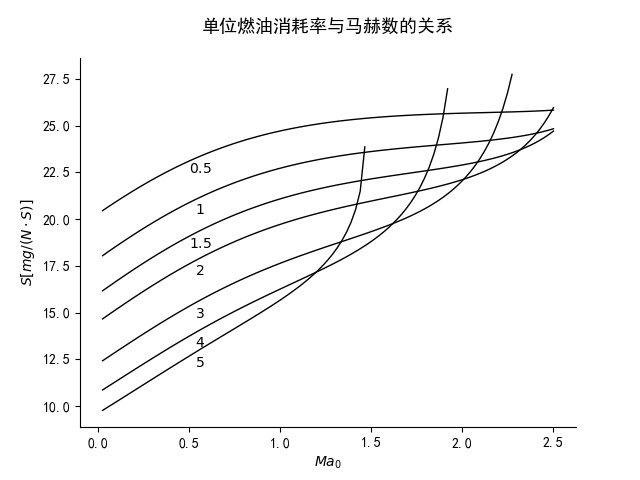
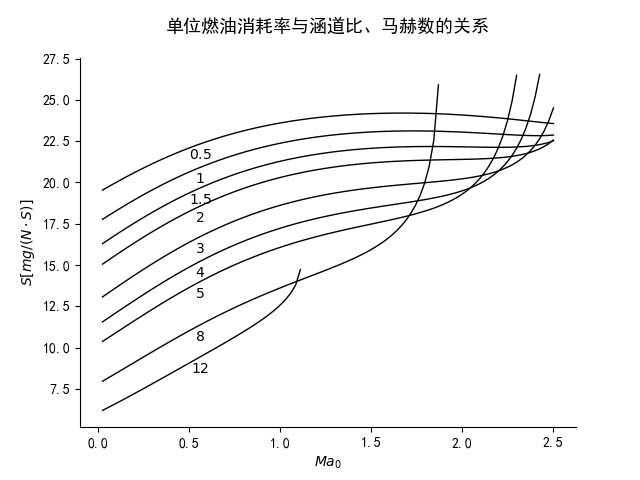
GE90参数更新

diff --git a/ploter.py b/ploter.py
@@ -10,7 +10,7 @@ import os
 path = os.path.dirname(os.path.abspath(__file__)) 
 os.chdir(path+"/out/")
 
-param={'T_0':217,'Ma_0':0.9,'h_c':42800000,'T_t4':1670,'pi_c':20,'pi_f':4,'alpha':1,'gama':1.4,'C_p':1004}
+param={'T_0':227.15,'Ma_0':0.84,'h_c':42800000,'T_t4':1775,'pi_c':42,'pi_f':2,'alpha':9,'gama':1.4,'C_p':1004}
 step=100
 
 # 绘制单位推力-压比关系图
@@ -68,7 +68,7 @@ plt.rcParams['font.sans-serif']=['SimHei']
 plt.rcParams['axes.unicode_minus']=False
 plt.xlabel('$\pi_c$')
 plt.ylabel('$S[mg/(N \cdot S)]$')
-plt.title(u'单位燃油消耗率与压比的关系\n',fontsize=13)
+plt.title(u'单位燃油消耗率与涵道比、压比的关系\n',fontsize=13)
 ax=plt.gca()
 ax.spines['top'].set_visible(False)
 ax.spines['right'].set_visible(False)
@@ -105,7 +105,7 @@ plt.rcParams['font.sans-serif']=['SimHei']
 plt.rcParams['axes.unicode_minus']=False
 plt.xlabel('$\pi_c$')
 plt.ylabel('$\eta_o\qquad\qquad (\%) \qquad\qquad\eta_p$')
-plt.title(u'推进效率、总效率与压比的关系\n',fontsize=13)
+plt.title(u'推进效率、总效率与涵道比、压比的关系\n',fontsize=13)
 ax=plt.gca()
 ax.spines['top'].set_visible(False)
 ax.spines['right'].set_visible(False)
@@ -114,16 +114,23 @@ plt.clf()
 
 # 绘制热效率与油气比-压比关系图
 x=np.linspace(1,30,step,endpoint=True)
-y=np.empty((step))
-z=np.empty((step))
+y=np.zeros((step))
+z=np.zeros((step))
 param_temp=param.copy()
 fig=plt.figure()
 ax1=fig.add_subplot(111)
-for i in range(step):
+i=0
+while i<len(x):
   param_temp['pi_c']=x[i]
   res=calculator.calc(param_temp)
-  z[i]=res['eta_t']*100
-  y[i]=res['f']
+  if res:
+    z[i]=res['eta_t']*100
+    y[i]=res['f']
+    i+=1
+  else:
+    x=np.delete(x,i)
+    y=np.delete(y,i)
+    z=np.delete(z,i)
 plt.rcParams['font.sans-serif']=['SimHei']
 plt.rcParams['axes.unicode_minus']=False
 plt.xlabel('$\pi_c$')
@@ -167,7 +174,7 @@ plt.rcParams['font.sans-serif']=['SimHei']
 plt.rcParams['axes.unicode_minus']=False
 plt.xlabel('$Ma_0$')
 plt.ylabel('$F/\dot{m}_0[N/(kg/s)]$')
-plt.title(u'单位推力与马赫数的关系\n',fontsize=13)
+plt.title(u'单位推力涵道比、马赫数的关系\n',fontsize=13)
 ax=plt.gca()
 ax.spines['top'].set_visible(False)
 ax.spines['right'].set_visible(False)
@@ -198,7 +205,7 @@ plt.rcParams['font.sans-serif']=['SimHei']
 plt.rcParams['axes.unicode_minus']=False
 plt.xlabel('$Ma_0$')
 plt.ylabel('$S[mg/(N \cdot S)]$')
-plt.title(u'单位燃油消耗率与马赫数的关系\n',fontsize=13)
+plt.title(u'单位燃油消耗率与涵道比、马赫数的关系\n',fontsize=13)
 ax=plt.gca()
 ax.spines['top'].set_visible(False)
 ax.spines['right'].set_visible(False)
@@ -229,7 +236,7 @@ plt.rcParams['font.sans-serif']=['SimHei']
 plt.rcParams['axes.unicode_minus']=False
 plt.xlabel('$Ma_0$')
 plt.ylabel('$\eta_p(\%)$')
-plt.title(u'推进效率与马赫数的关系\n',fontsize=13)
+plt.title(u'推进效率与涵道比、马赫数的关系\n',fontsize=13)
 ax=plt.gca()
 ax.spines['top'].set_visible(False)
 ax.spines['right'].set_visible(False)
@@ -260,7 +267,7 @@ plt.rcParams['font.sans-serif']=['SimHei']
 plt.rcParams['axes.unicode_minus']=False
 plt.xlabel('$Ma_0$')
 plt.ylabel('$\eta_0(\%)$')
-plt.title(u'总效率与马赫数的关系\n',fontsize=13)
+plt.title(u'总效率与涵道比、马赫数的关系\n',fontsize=13)
 ax=plt.gca()
 ax.spines['top'].set_visible(False)
 ax.spines['right'].set_visible(False)
@@ -329,7 +336,7 @@ plt.rcParams['font.sans-serif']=['SimHei']
 plt.rcParams['axes.unicode_minus']=False
 plt.xlabel('$T_0$(K)')
 plt.ylabel('$F/\dot{m}_0[N/(kg/s)]$')
-plt.title(u'单位推力与环境温度的关系\n',fontsize=13)
+plt.title(u'单位推力与涵道比、环境温度的关系\n',fontsize=13)
 ax=plt.gca()
 ax.spines['top'].set_visible(False)
 ax.spines['right'].set_visible(False)
@@ -355,12 +362,12 @@ for i in alpha[:]:
       y=np.delete(y,j)
   plt.plot(x,y,color='black',linewidth=1)
   if len(x)>0:
-    plt.text(x[-1]+3,y[-1]-0.2,'$\\alpha={}$'.format(i),ha='center',va='center')
+    plt.text(x[0]+3,y[0]+0.5,'$\\alpha={}$'.format(i),ha='center',va='center')
 plt.rcParams['font.sans-serif']=['SimHei']
 plt.rcParams['axes.unicode_minus']=False
 plt.xlabel('$T_0$(K)')
 plt.ylabel('$S[mg/(N \cdot S)]$')
-plt.title(u'单位燃油消耗率与环境温度的关系\n',fontsize=13)
+plt.title(u'单位燃油消耗率与涵道比、环境温度的关系\n',fontsize=13)
 ax=plt.gca()
 ax.spines['top'].set_visible(False)
 ax.spines['right'].set_visible(False)
@@ -391,7 +398,7 @@ plt.rcParams['font.sans-serif']=['SimHei']
 plt.rcParams['axes.unicode_minus']=False
 plt.xlabel('$T_0$(K)')
 plt.ylabel('$\eta_p(\%)$')
-plt.title(u'推进效率与环境温度的关系\n',fontsize=13)
+plt.title(u'推进效率与涵道比、环境温度的关系\n',fontsize=13)
 ax=plt.gca()
 ax.spines['top'].set_visible(False)
 ax.spines['right'].set_visible(False)
@@ -422,7 +429,7 @@ plt.rcParams['font.sans-serif']=['SimHei']
 plt.rcParams['axes.unicode_minus']=False
 plt.xlabel('$T_0$(K)')
 plt.ylabel('$\eta_0(\%)$')
-plt.title(u'总效率与环境温度的关系\n',fontsize=13)
+plt.title(u'总效率与涵道比、环境温度的关系\n',fontsize=13)
 ax=plt.gca()
 ax.spines['top'].set_visible(False)
 ax.spines['right'].set_visible(False)
